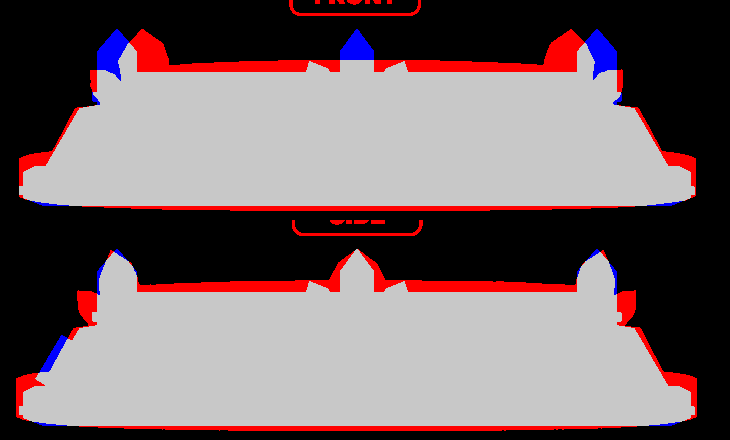
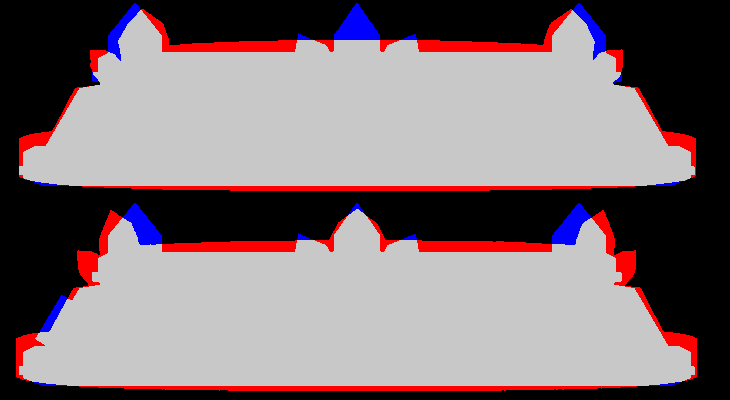
vault backup: 2026-11-28 01:47:15

diff --git a/GYM ARC/Art/TitanPedestal/build_pedestal.py b/GYM ARC/Art/TitanPedestal/build_pedestal.py
@@ -39,7 +39,7 @@ stack("Glow", [(268, 142), (268, 132)])
 
 def crystal(base, h, r, tilt, yaw):
     """6-sided ice crystal: prism with a pointed top, tilted outward by tilt (rad) in the direction yaw."""
-    lo = ring(r, 0, 6, 0); hi = ring(r, h * 0.7, 6, 0); tip = Vector((0, 0, h))
+    lo = ring(r, 0, 6, 0); hi = ring(r, h * 0.6, 6, 0); tip = Vector((0, 0, h))
     m = Matrix.Rotation(yaw, 3, "Z") @ Matrix.Rotation(tilt, 3, "Y")
     verts = [base + m @ v for v in lo + hi + [tip]]
     faces = [tuple(range(5, -1, -1))] + [(i, (i + 1) % 6, 6 + (i + 1) % 6, 6 + i) for i in range(6)] + [(6 + i, 6 + (i + 1) % 6, 12) for i in range(6)]
@@ -48,10 +48,10 @@ def crystal(base, h, r, tilt, yaw):
 # 4 ice clusters on the top tier rim (TOP + SIDE views: left, right, front, back), each a tall centre crystal + 2 leaning ones
 for a in (0, math.pi / 2, math.pi, 3 * math.pi / 2):
     d = Vector((math.cos(a), math.sin(a), 0)); t = Vector((-d.y, d.x, 0))
-    c = d * 240 * S + Vector((0, 0, Z(146)))
-    crystal(c, 78 * S, 20 * S, 0, a)
-    crystal(c + t * 26 * S, 50 * S, 14 * S, 0.45, a + math.pi / 2)
-    crystal(c - t * 26 * S, 50 * S, 14 * S, 0.45, a - math.pi / 2)
+    c = d * 222 * S + Vector((0, 0, Z(146)))
+    crystal(c, 84 * S, 27 * S, 0, a)
+    crystal(c + t * 30 * S, 60 * S, 19 * S, 0.5, a + math.pi / 2)
+    crystal(c - t * 30 * S, 60 * S, 19 * S, 0.5, a - math.pi / 2)
 
 # plaque: bevelled plate on the middle tier's front slope (front view x 301-474, y 156-208)
 w, h, th = 173 / 2 * S, 52 / 2 * S, 0.03
